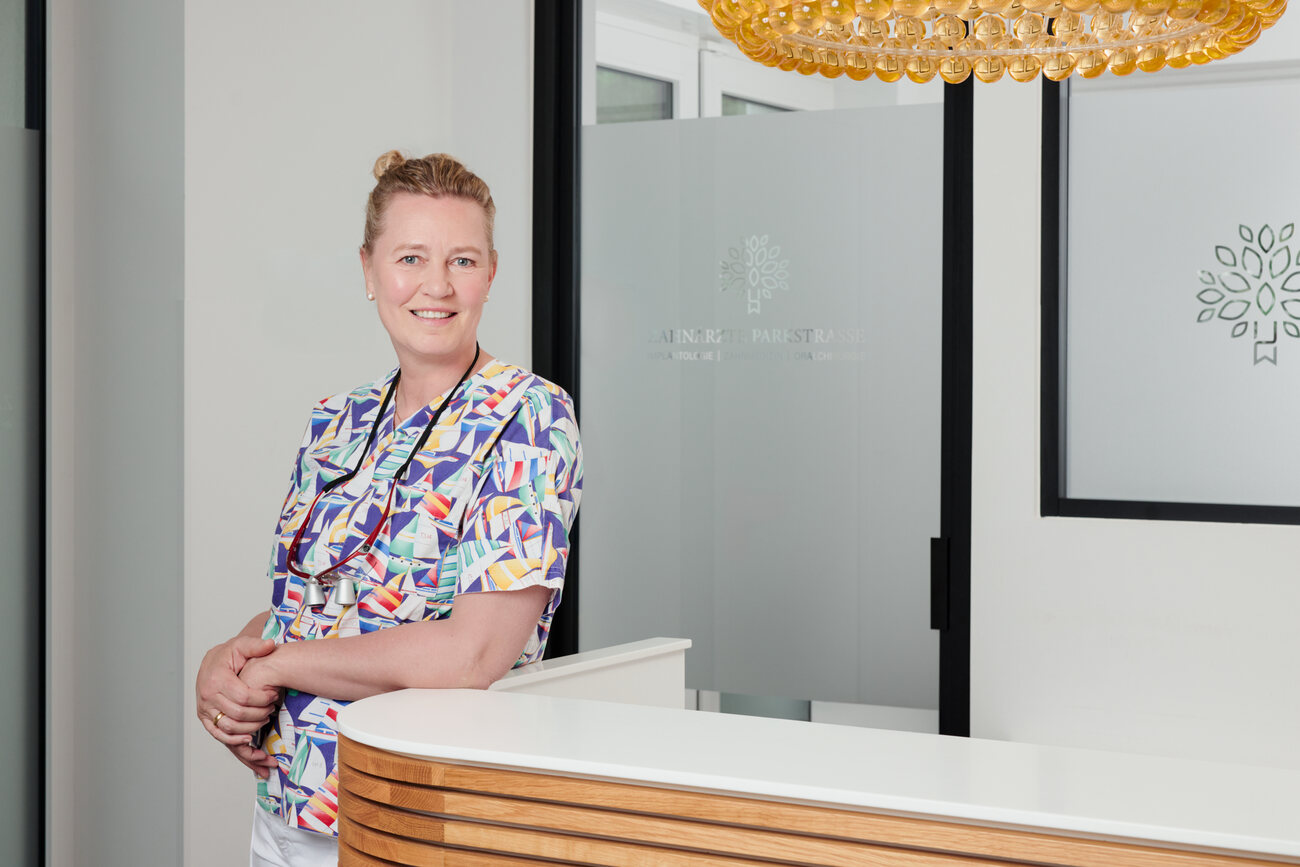
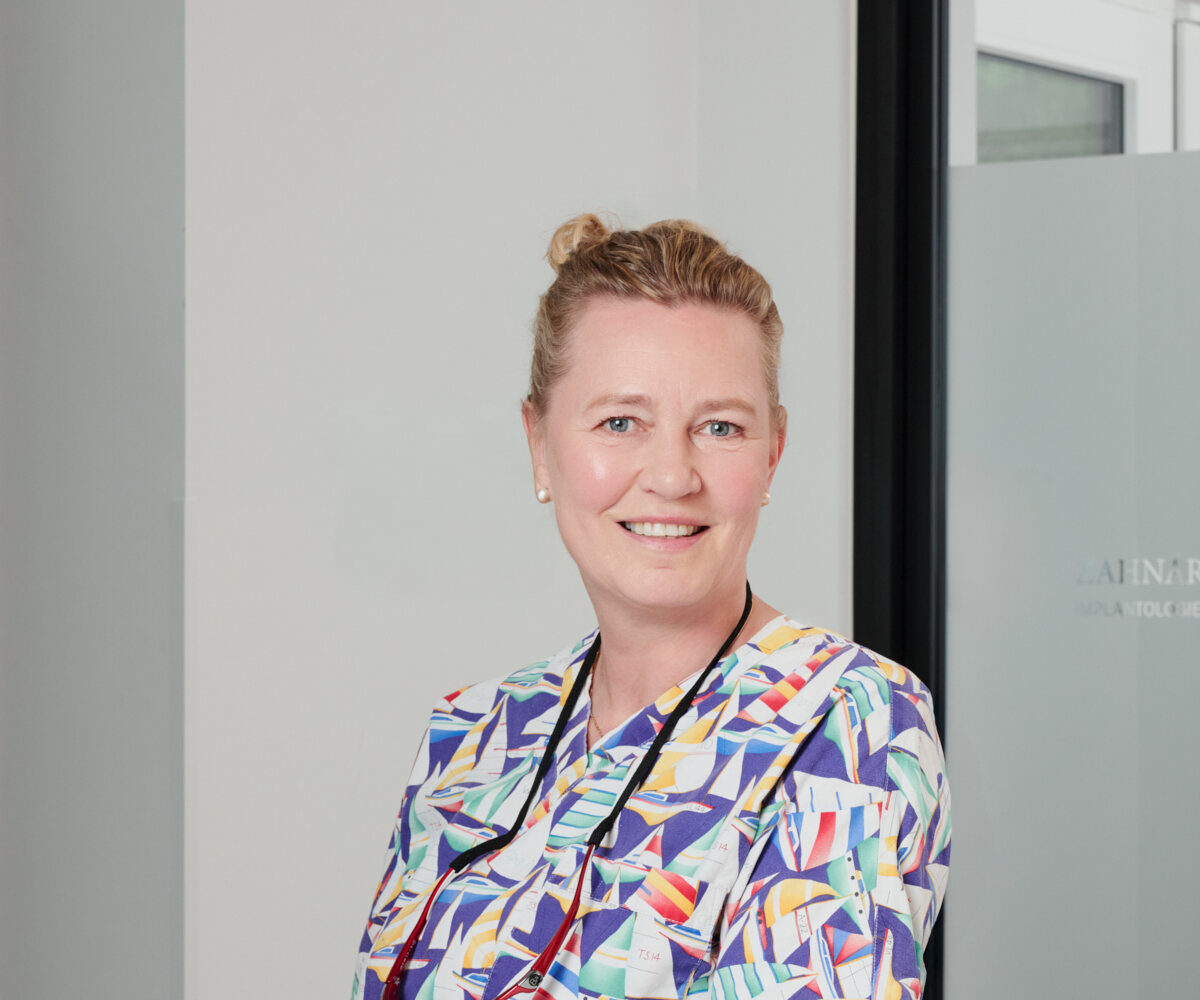
feat: Bild-Feinschliff + Termin auf Coming-Soon + Fortbildungs-Bilder (Mama-Feedback)
- Hero: beide Aerztinnen mittiger; Philosophie: Dr. Schwegmann zentriert + naeher;
  Team: Dr. Janz naeher + zentriert (Quellbilder neu zugeschnitten)
- Leistungen: Implantologie- und Parodontologie-Foto getauscht
- Termin: Online-Buchung voruebergehend auf "in Kuerze" (HeyDent deaktiviert)
- Fortbildungen: zwei Bilder ergaenzt (Mikroskop-Arbeit + Study-Club)

diff --git a/app/[locale]/fortbildungen/page.tsx b/app/[locale]/fortbildungen/page.tsx
@@ -1,4 +1,5 @@
 import type { Metadata } from "next";
+import Image from "next/image";
 import SeiteHero from "../../components/SeiteHero";
 import SektionsHeader from "../../components/SektionsHeader";
 import BaumDekor from "../../components/BaumDekor";
@@ -144,6 +145,22 @@ export default async function FortbildungenSeite({ params }: { params: Promise<{
         </div>
       </section>
 
+      {/* Bild: Mikroskop / Supervision */}
+      <section className="relative pb-6 lg:pb-10 overflow-hidden" style={{ background: "#f4f1ec" }}>
+        <div className="relative z-10 max-w-4xl mx-auto px-6 lg:px-10">
+          <div className="overflow-hidden anim-einblenden" style={{ borderRadius: "22px", boxShadow: "0 16px 36px -8px rgba(105,123,123,0.14)" }}>
+            <Image
+              src="/images/fortbildung-mikroskop.jpg"
+              alt="Fortbildung am Operationsmikroskop — gemeinsames Lernen unter Supervision"
+              width={1200}
+              height={800}
+              className="w-full h-auto object-cover"
+              style={{ aspectRatio: "3/2", filter: "saturate(0.92) brightness(1.02)" }}
+            />
+          </div>
+        </div>
+      </section>
+
       {/* Vorteile */}
       <section className="relative py-20 lg:py-28 overflow-hidden" style={{ background: "#f0ede8" }}>
         <div className="relative z-10 max-w-5xl mx-auto px-6 lg:px-10">
@@ -175,6 +192,22 @@ export default async function FortbildungenSeite({ params }: { params: Promise<{
                 <p className="text-xs" style={{ color: "#6a7a7a", fontWeight: 300, lineHeight: 1.7 }}>{vorteilItems[key].text}</p>
               </div>
             ))}
+          </div>
+        </div>
+      </section>
+
+      {/* Bild: Study Club */}
+      <section className="relative pb-6 lg:pb-10 overflow-hidden" style={{ background: "#f0ede8" }}>
+        <div className="relative z-10 max-w-4xl mx-auto px-6 lg:px-10">
+          <div className="overflow-hidden anim-einblenden" style={{ borderRadius: "22px", boxShadow: "0 16px 36px -8px rgba(105,123,123,0.14)" }}>
+            <Image
+              src="/images/fortbildung-studyclub.jpg"
+              alt="Study Club: praktische chirurgische Fortbildung — Operationen am eigenen Patienten unter Anleitung"
+              width={1200}
+              height={800}
+              className="w-full h-auto object-cover"
+              style={{ aspectRatio: "3/2", objectPosition: "center 30%", filter: "saturate(0.92) brightness(1.02)" }}
+            />
           </div>
         </div>
       </section>

diff --git a/app/[locale]/termin/page.tsx b/app/[locale]/termin/page.tsx
@@ -2,7 +2,6 @@ import type { Metadata } from "next";
 import SeiteHero from "../../components/SeiteHero";
 import SektionsHeader from "../../components/SektionsHeader";
 import BaumDekor from "../../components/BaumDekor";
-import HeydentWidget from "../../components/HeydentWidget";
 import { getDictionary, type Locale } from "../../../lib/i18n";
 import { createMetadata } from "../../../lib/metadata";
 
@@ -87,8 +86,13 @@ export default async function TerminSeite({ params }: { params: Promise<{ locale
       <section className="relative py-20 lg:py-28 overflow-hidden" style={{ background: "#f0ede8" }}>
         <div className="relative z-10 max-w-3xl mx-auto px-6 lg:px-10">
           <SektionsHeader label={online.label} titel={online.titel} titelAkzent={online.titelAkzent} />
-          <div style={{ background: "rgba(255,255,255,0.6)", borderRadius: "22px", border: "1px solid rgba(105,123,123,0.07)", overflow: "hidden" }}>
-            <HeydentWidget slug="zahnaerzte-parkstrasse-othmarschen" minHeight={720} locale={locale} />
+          {/* Online-Buchung vorübergehend deaktiviert — "Coming Soon" (HeyDent-Widget bei Reaktivierung wieder einsetzen) */}
+          <div className="p-12 lg:p-16 text-center" style={{ background: "rgba(255,255,255,0.6)", borderRadius: "22px", border: "1px solid rgba(105,123,123,0.07)" }}>
+            <div className="w-14 h-14 mx-auto mb-5 flex items-center justify-center rounded-full" style={{ background: "rgba(242,101,34,0.08)" }}>
+              <svg viewBox="0 0 28 28" className="w-6 h-6" fill="none" stroke="#F26522" strokeWidth="1.5"><circle cx="14" cy="14" r="11" /><path d="M14 7v7l5 3" strokeLinecap="round" /></svg>
+            </div>
+            <p className="text-base mb-2" style={{ fontFamily: "var(--font-cormorant), serif", fontWeight: 600, color: "#2d3a3a" }}>{online.platzhalter}</p>
+            <p className="text-sm" style={{ color: "#5a6a6a", fontWeight: 300, lineHeight: 1.7 }}>{online.bissDahin.replace("{telefon}", "040 — 880 21 50")}</p>
           </div>
         </div>
       </section>

diff --git a/app/[locale]/page.tsx b/app/[locale]/page.tsx
@@ -273,7 +273,7 @@ export default async function Homepage({ params }: { params: Promise<{ locale: s
             {/* Bild links */}
             <div className="relative anim-einblenden-links d2">
               <div className="overflow-hidden" style={{ borderRadius: "40% 60% 45% 55% / 55% 38% 62% 45%", boxShadow: "0 20px 44px -10px rgba(105, 123, 123, 0.16)" }}>
-                <Image src="/images/patientenberatung.jpg" alt={philosophie.bildAlt as string} width={600} height={500} className="w-full h-auto object-cover" style={{ aspectRatio: "6/5", filter: "saturate(0.88) brightness(1.03)", objectPosition: "30% center" }} />
+                <Image src="/images/patientenberatung.jpg" alt={philosophie.bildAlt as string} width={600} height={500} className="w-full h-auto object-cover" style={{ aspectRatio: "6/5", filter: "saturate(0.88) brightness(1.03)", objectPosition: "center center" }} />
               </div>
               <div className="absolute -bottom-5 -right-3 lg:-right-6 px-7 py-4 anim-einblenden d6" style={{ background: "rgba(255, 255, 255, 0.95)", backdropFilter: "blur(8px)", borderRadius: "18px", boxShadow: "0 10px 28px rgba(105, 123, 123, 0.1)", border: "1px solid rgba(105, 123, 123, 0.06)" }}>
                 <div className="text-2xl" style={{ fontFamily: "var(--font-cormorant), serif", fontWeight: 700, color: "#697B7B" }}>{philosophie.badge as string}</div>
